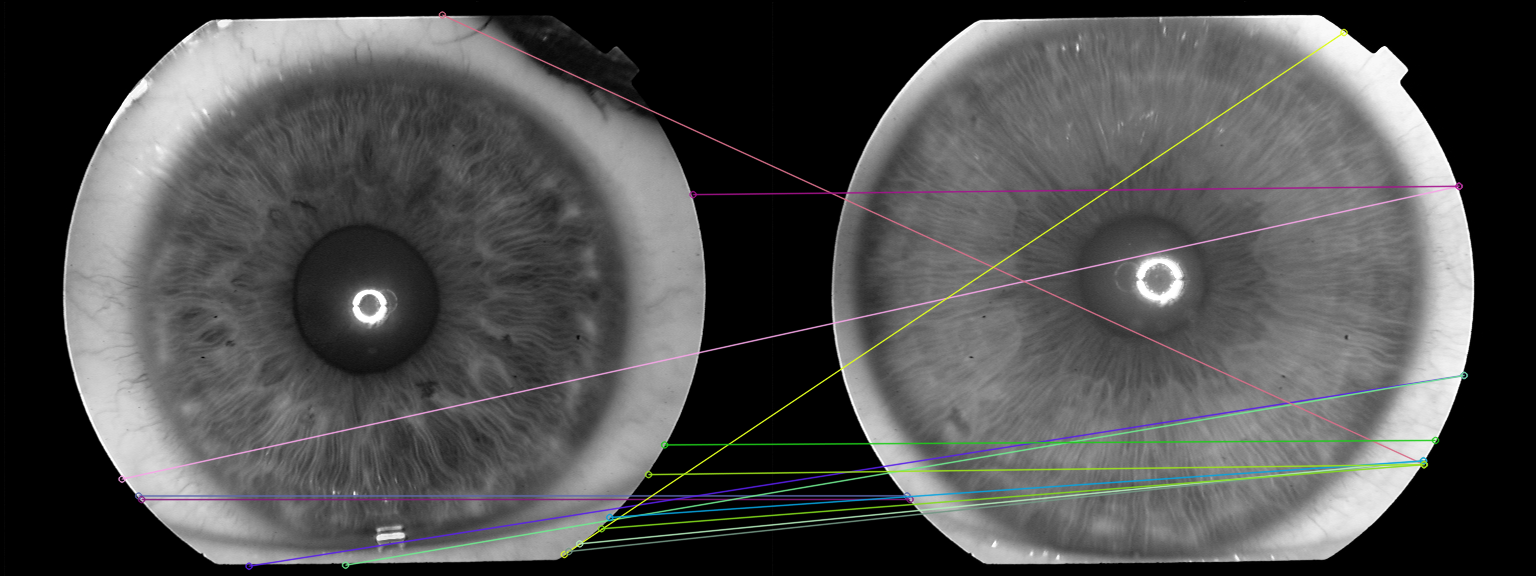
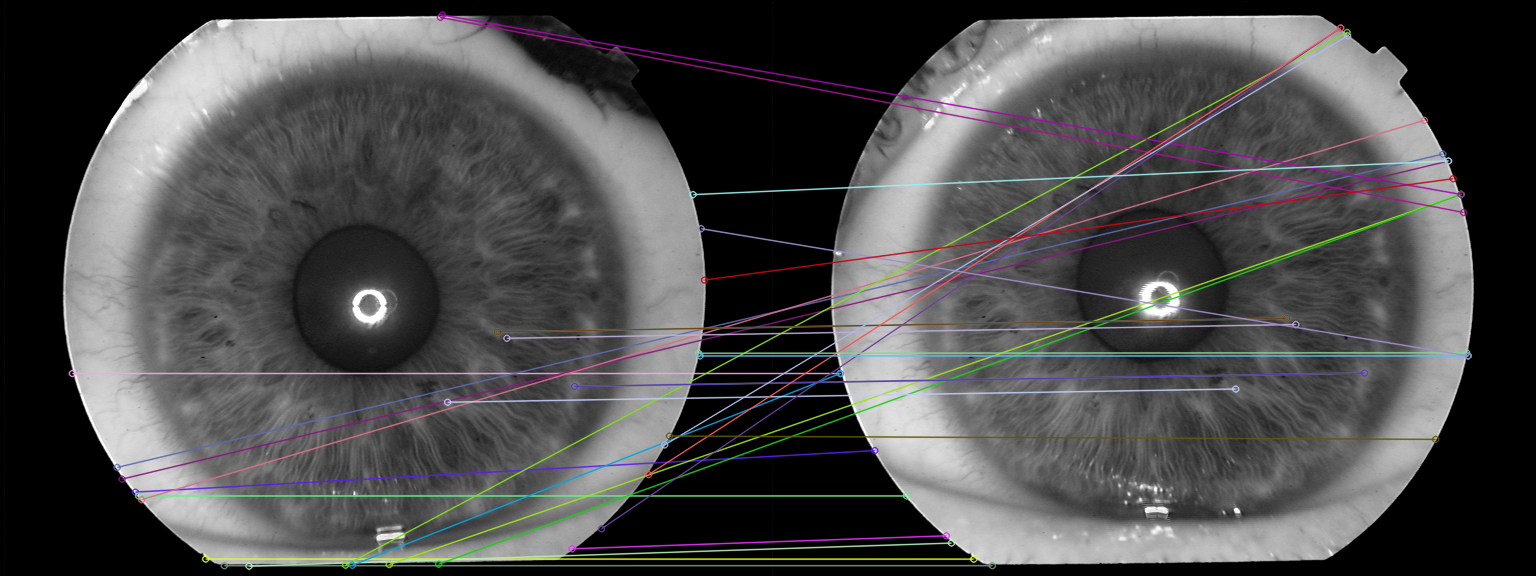
l'autre pc

Changed region(s): [[0.0625, 0.0, 0.9688, 1.0], [0.4688, 0.4688, 0.5, 0.5], [0.4688, 0.25, 0.5, 0.2812]]

diff --git a/templates/sol.html b/templates/sol.html
@@ -5,6 +5,6 @@
 {% block content %}
     <p>votre image a éte identifier avec succées</p>
     <p>Vous etes referanceé en tant que</p> 
-    <p> {{x}} </p>
-    <img src=y alt="solution">
+    <p> {{ x }} </p>
+    <img src="workspace/result.png" alt="solution">
 {% endblock %}

diff --git a/concrete.py b/concrete.py
@@ -29,7 +29,7 @@ def home():
     if request.method == "POST":
         image= request.files['img']
         image= image.read()
-        with open('probleme.png', "wb") as f:
+        with open('workspace/probleme.png', "wb") as f:
             f.write(image)
         return redirect(url_for("solution"))
     else:
@@ -41,7 +41,7 @@ def solution():
 # Paramètres
     
     SEUIL = 20  # Ajustez le seuil selon vos besoins
-    probleme_c = cv2.imread("probleme.png",0)
+    probleme_c = cv2.imread("workspace/probleme.png",0)
     # Base de données d'images
     database_images = []
     for file in sorted(os.listdir("database1")):
@@ -72,10 +72,8 @@ def solution():
     if len(match_sol) > SEUIL:
         print("Personne identifiée pour un score matche de", len(match_sol), " avec la photo", solution)
         comp = cv2.drawMatches(probleme_c,probleme_k,solution_c, solution_k, match_sol, None, flags=cv2.DrawMatchesFlags_NOT_DRAW_SINGLE_POINTS)
-        cv2.imwrite("result.png", comp)
-        x=os.path.basename(solution)[10:14]
-        y="result.png"
-        return render_template("sol.html",x=x,y=y)
+        cv2.imwrite("workspace/result.png", comp)
+        return render_template("sol.html",x=os.path.basename(solution)[10:14])
     else:
         print("Personne non reconnue")
         return render_template('refu.html')
